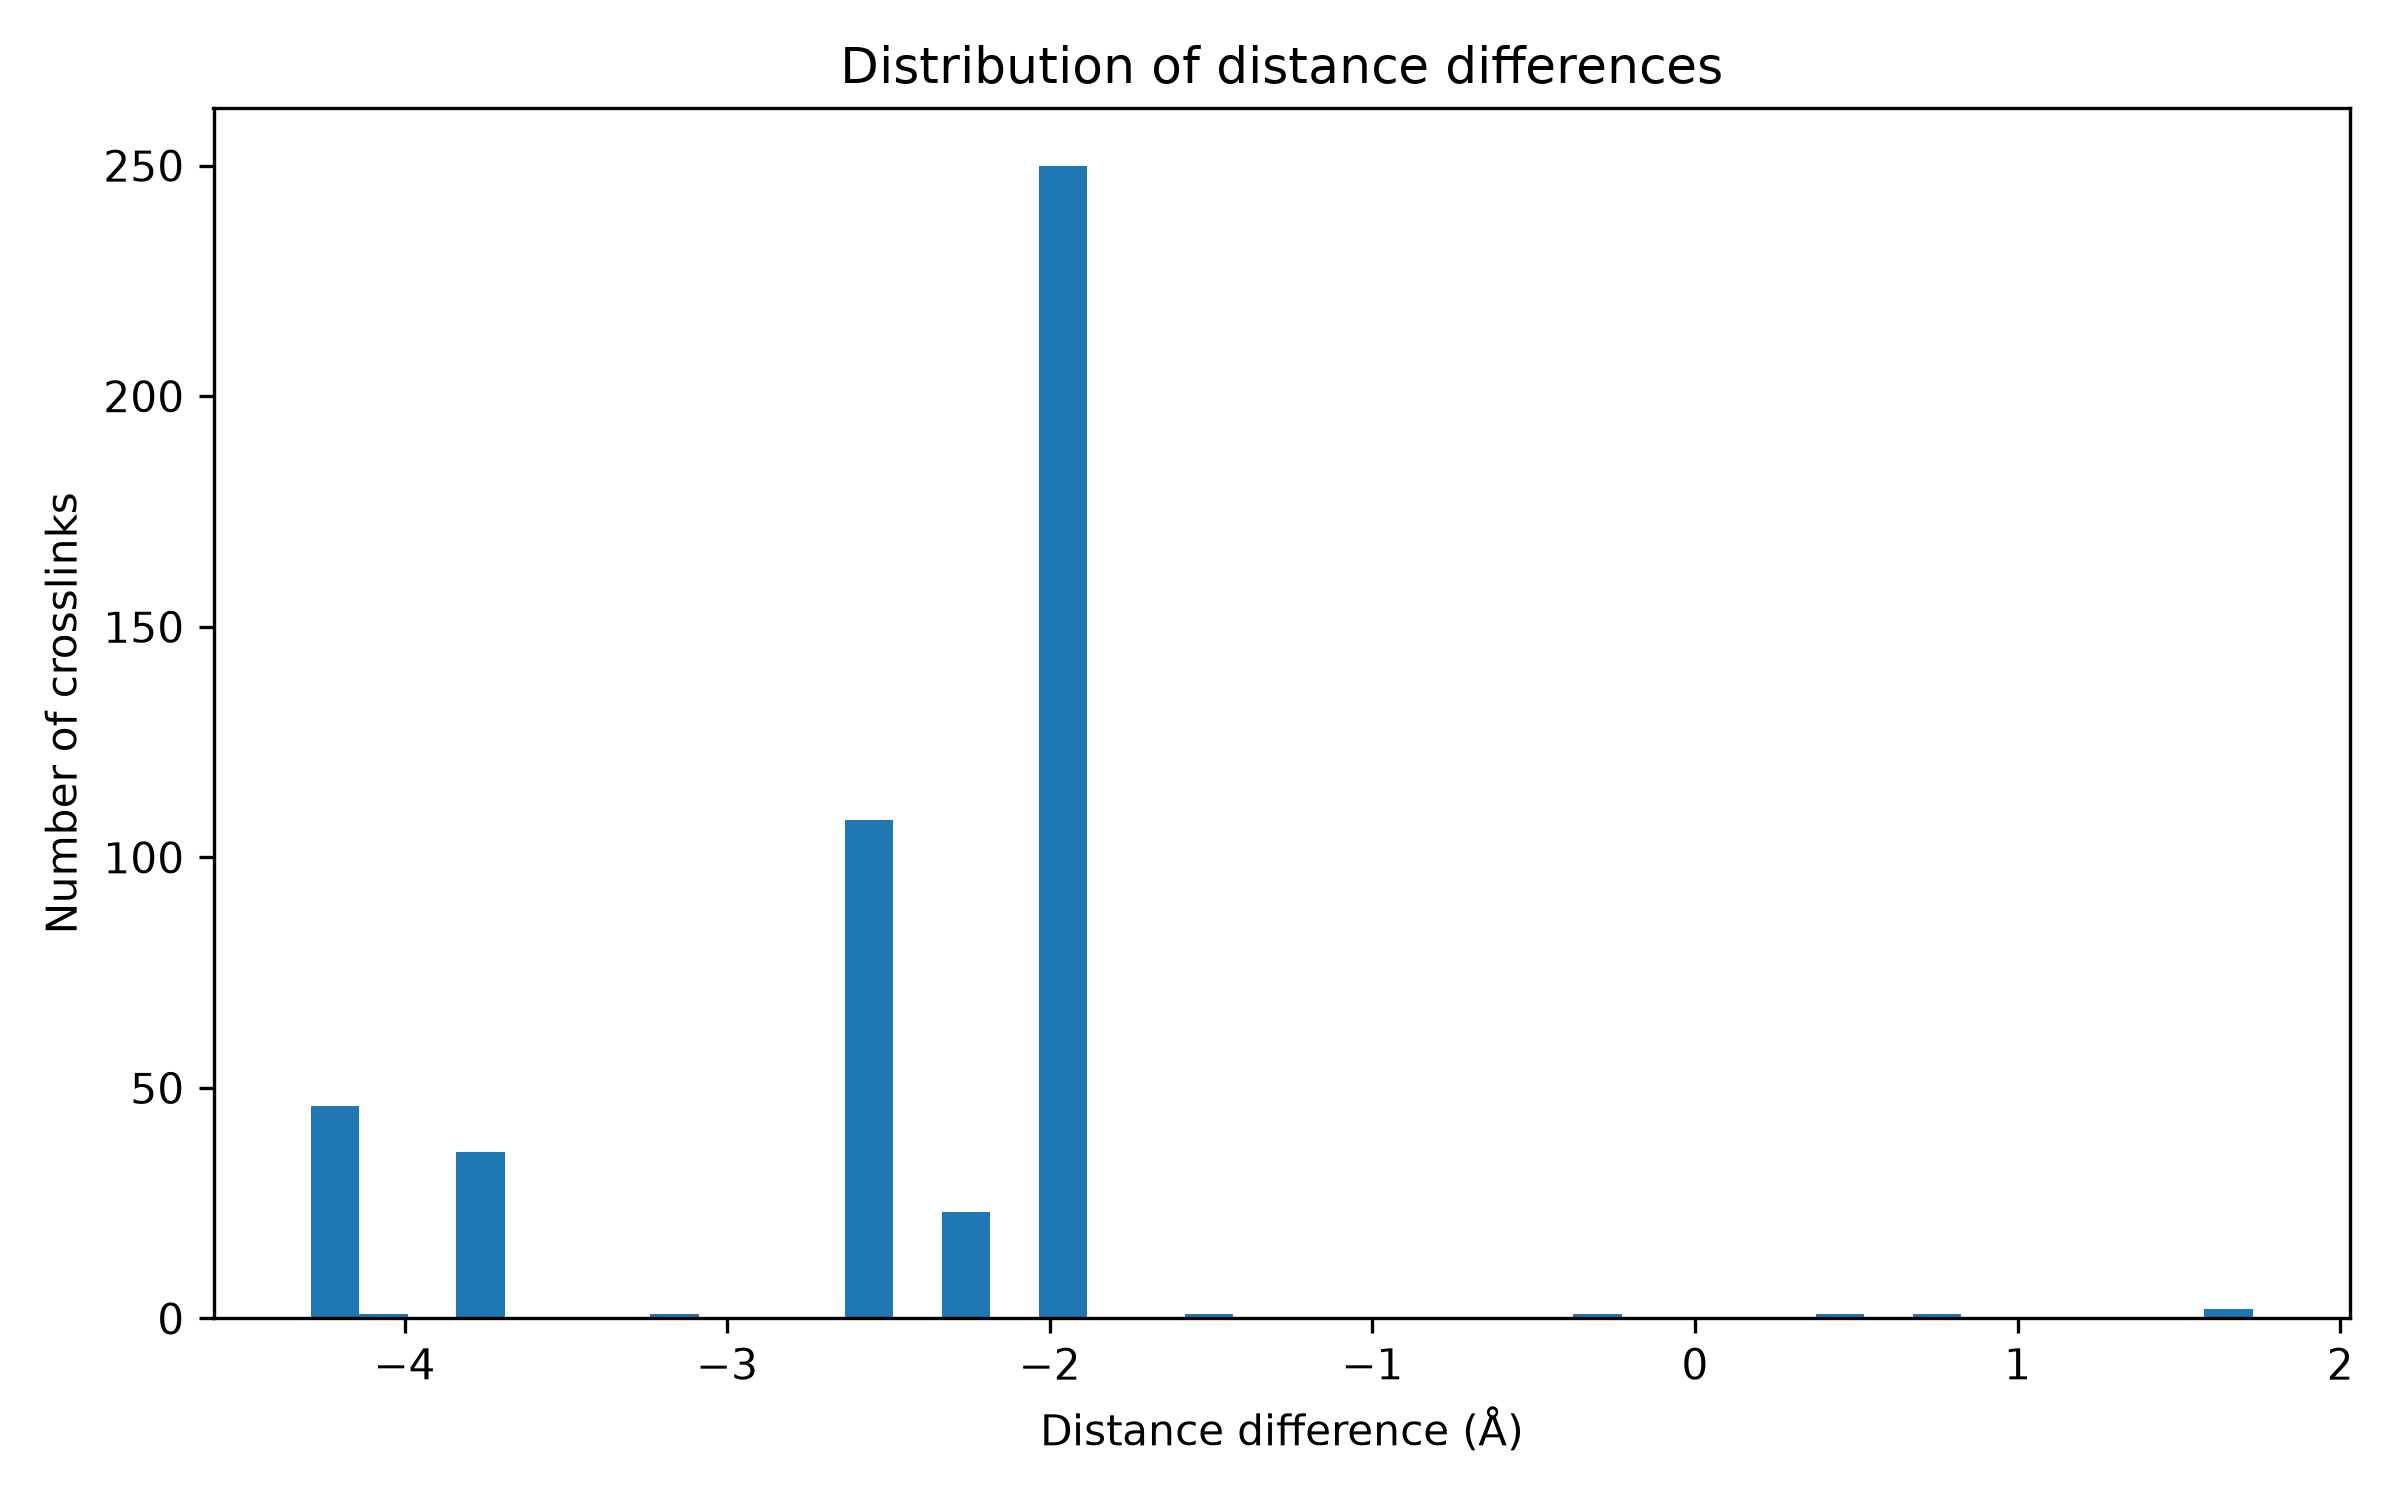
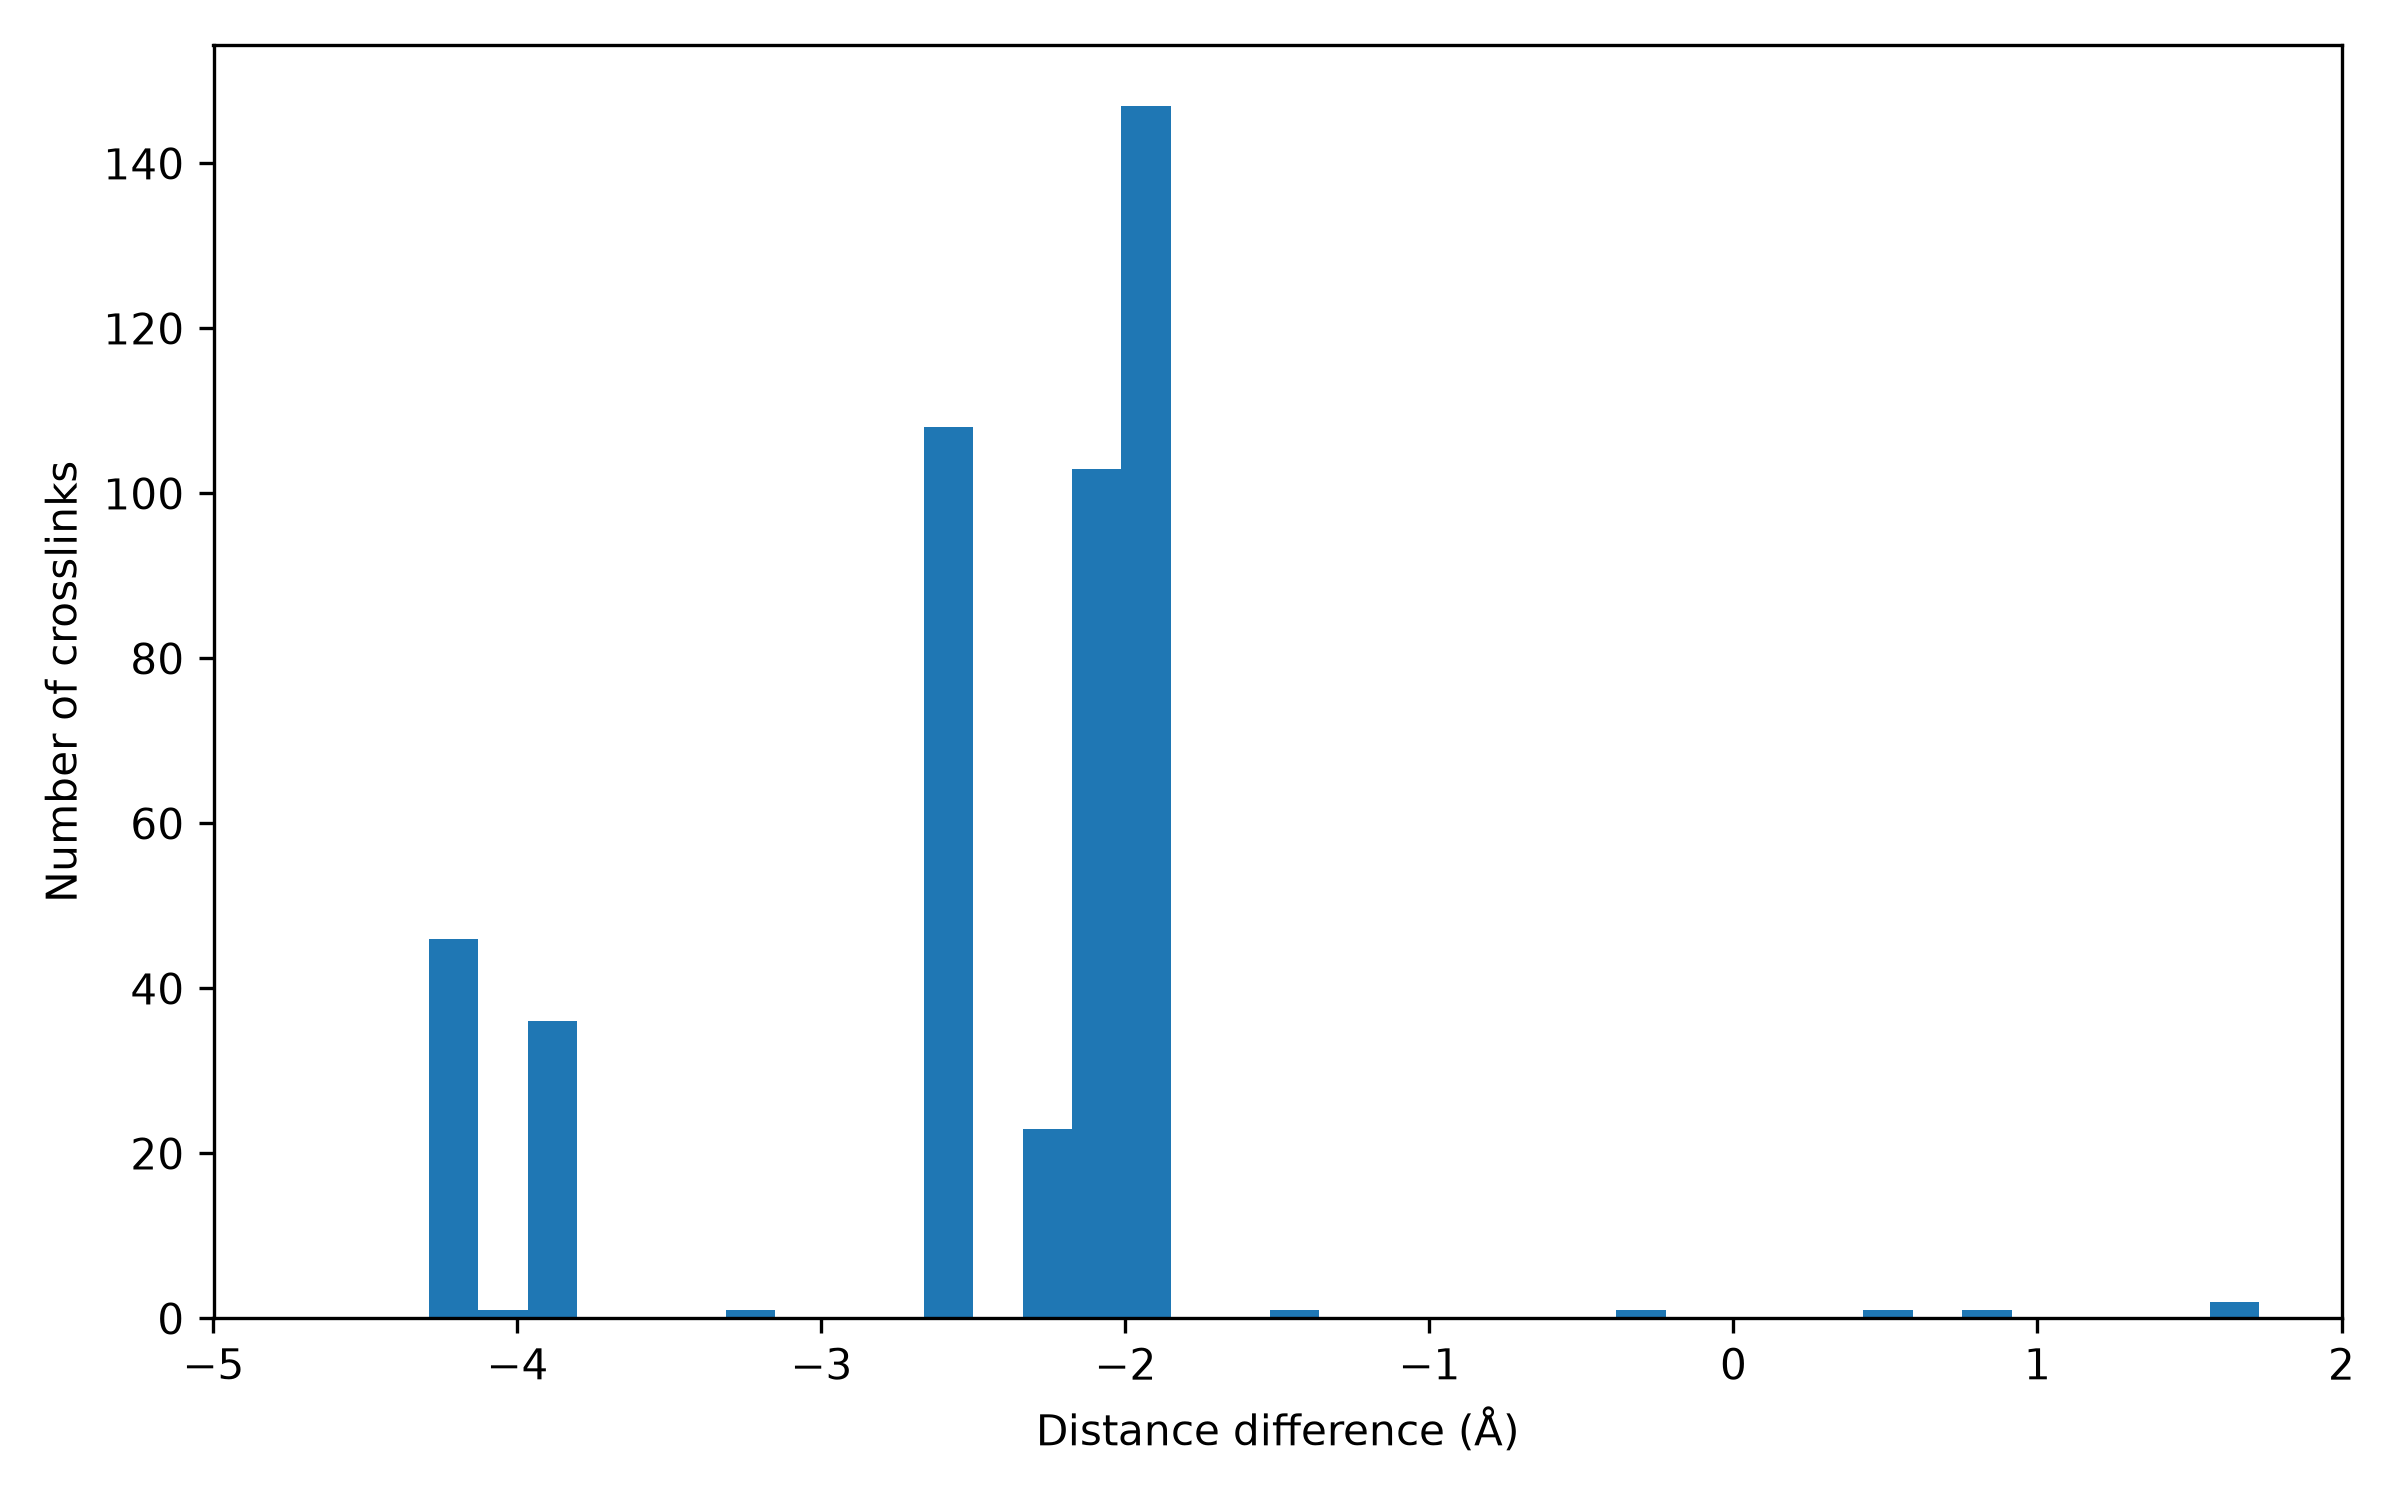
feat: add new validity comparison script

diff --git a/analysis/analyse-cl-results.py b/analysis/analyse-cl-results.py
@@ -1,5 +1,7 @@
 import pandas as pd
 import matplotlib.pyplot as plt
+import numpy as np
+import math 
 from pathlib import Path
 
 def compare_distances(merged: pd.DataFrame, output_file: Path) -> None:
@@ -106,11 +108,11 @@ def compare_distances(merged: pd.DataFrame, output_file: Path) -> None:
     plt.figure(figsize=(8, 5))
     plt.hist(
         merged["distance_difference"],
-        bins=40
+        bins="auto" 
     )
     plt.xlabel("Distance difference (Å)")
     plt.ylabel("Number of crosslinks")
-    plt.title("Distribution of distance differences")
+    plt.xlim(math.floor(merged["distance_difference"].min()), math.ceil(merged["distance_difference"].max()))
     plt.tight_layout()
     plt.savefig(histogram_file, dpi=300)
     plt.close()
@@ -131,6 +133,23 @@ def compare_distances(merged: pd.DataFrame, output_file: Path) -> None:
     plt.savefig(boxplot_file, dpi=300)
     plt.close()
 
+    ecdf_file = output_file.with_name(
+        output_file.stem + "_ecdf.png"
+    )
+
+    x = np.sort(merged["absolute_difference"])
+    y = np.arange(1, len(x)+1) / len(x)*100
+
+    plt.figure(figsize=(8, 5))
+    plt.step(x, y, where="post")
+    plt.xlabel("Absolute distance change (Å)")
+    plt.ylabel("Cumulative percentage of crosslinks (%)")
+    plt.xlim(math.floor(merged["absolute_difference"].min()), math.ceil(merged["absolute_difference"].max()))
+    plt.ylim(0, 100)
+    plt.grid(alpha=0.3)
+    plt.tight_layout()
+    plt.savefig(ecdf_file, dpi=300)
+    plt.close()
 
     output_df_file = output_file.with_name(
         output_file.stem + "_df.csv"
@@ -147,6 +166,7 @@ def compare_distances(merged: pd.DataFrame, output_file: Path) -> None:
     print(absolute_changes_file)
     print(histogram_file)
     print(boxplot_file)
+    print(ecdf_file)
 
 
 def compare_validation(merged: pd.DataFrame, output_file: Path) -> None:
@@ -213,8 +233,6 @@ def compare_validation(merged: pd.DataFrame, output_file: Path) -> None:
     )
     transition_matrix_counts.index = [r"$C\alpha$ Valid", r"$C\alpha$ Invalid", "Exact Total"]
     transition_matrix_counts.columns = ["Exact Valid", "Exact Invalid", r"$C\alpha$ Total"]
-    #transition_matrix_counts.index.name = r"$C\alpha$"
-    #transition_matrix_counts.columns.name = "Exact"
 
     transition_matrix_percentages = pd.crosstab(
         pd.Categorical(
